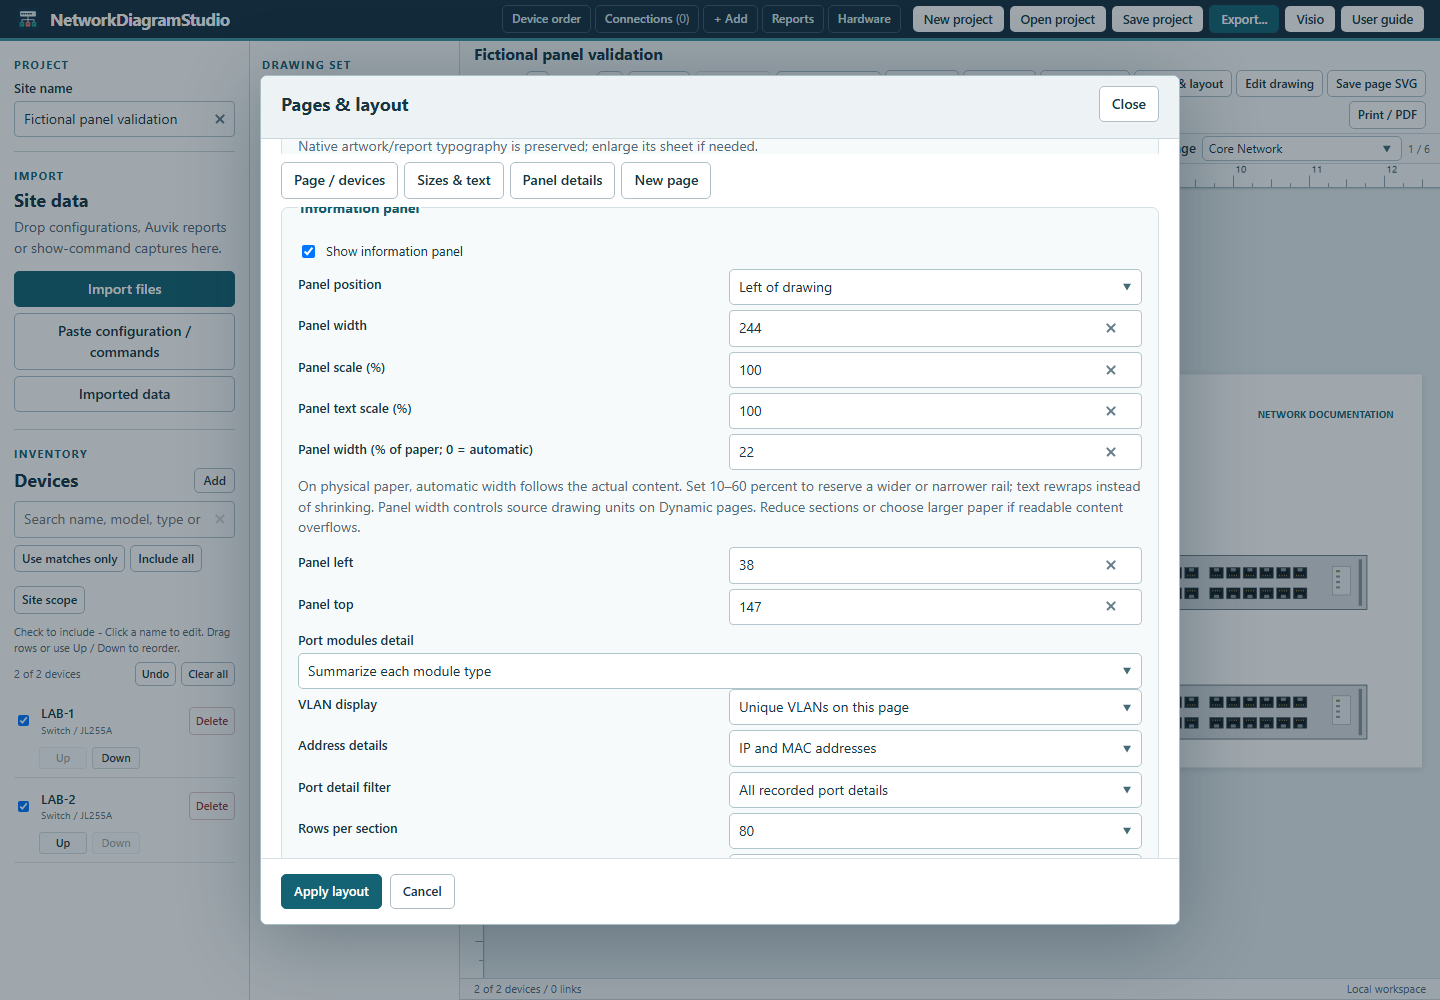
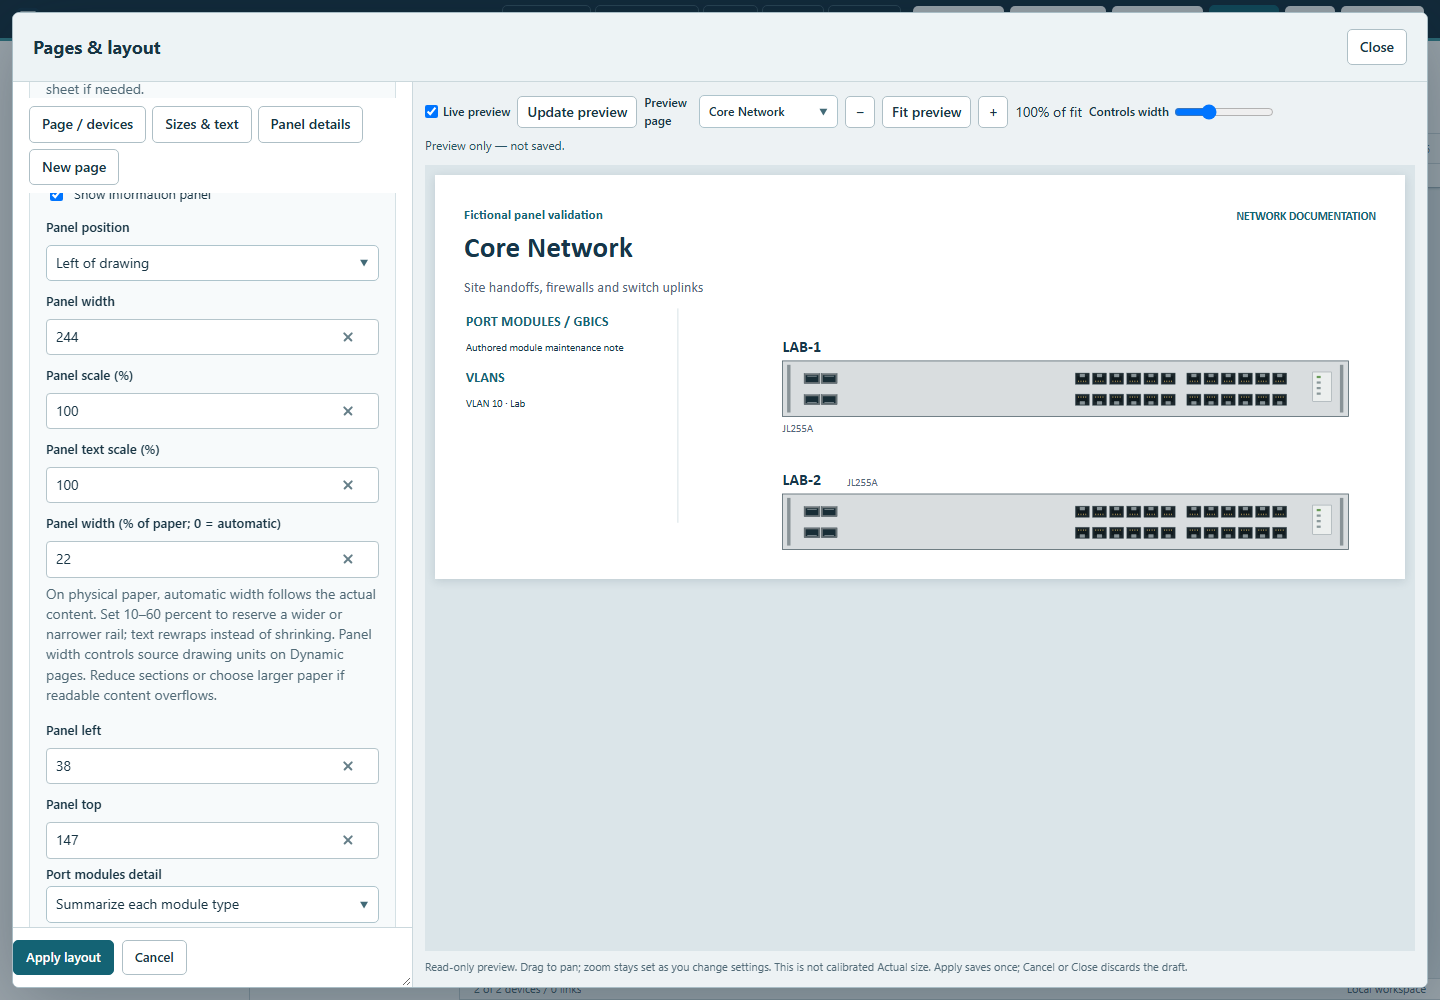
Synchronize real browser interactions and document verified preview47 controls

diff --git a/README.md b/README.md
@@ -77,7 +77,7 @@ Built-in optical sockets and generic installed optics use consistent, reference-
 
 The separate [drawing-pages sidebar](docs/images/pages-sidebar.png) adapts to [compact desktop windows](docs/images/pages-sidebar-compact.png) and [narrow screens](docs/images/pages-sidebar-narrow.png).
 
-See [port and VLAN controls](docs/images/port-vlan-controls.png), [existing-device stack associations](docs/images/device-stacks.png), and a [configured information panel](docs/images/panel-content.png). The [readable paper information rail](docs/images/panel-paper-readable.png) and [wireless color key](docs/images/wireless-paper-key.png) keep their text independent of model fitting. See the [physical text controls](docs/images/paper-readability-controls.png), [paper panel width controls](docs/images/paper-panel-controls.png), and [wireless side-space layout](docs/images/wireless-ap-side-space.png). The offline [User guide](docs/images/user-guide.png) provides searchable steps and adapts to [narrow windows](docs/images/user-guide-narrow.png).
+See [port and VLAN controls](docs/images/port-vlan-controls.png), [existing-device stack associations](docs/images/device-stacks.png), and a [configured information panel](docs/images/panel-content.png). The [readable paper information rail](docs/images/panel-paper-readable.png) and [wireless color key](docs/images/wireless-paper-key.png) keep their text independent of model fitting. See the [physical text controls](docs/images/paper-readability-controls.png), [paper panel width controls](docs/images/paper-panel-controls.png), and [wireless side-space layout](docs/images/wireless-ap-side-space.png). See the [locked port map filling its sheet](docs/images/locked-port-map.png) and [valid device placement below a short information panel](docs/images/empty-panel-space-placement.png). The offline [User guide](docs/images/user-guide.png) provides searchable steps and adapts to [narrow windows](docs/images/user-guide-narrow.png).
 
 Cable labels and port numbers use centered text by default; explicit text-style edits remain available.
 
@@ -223,7 +223,7 @@ calibrated preview, not an absolute guarantee of physical size across monitors.
 Printing must use the same paper at 100% scale for a matching result. Dynamic
 canvases need a physical paper choice before Actual size is available.
 
-Global text styles, Pages & layout and Page options show an isolated live drawing preview beside resizable controls. Pan/zoom the preview while changing settings; pause automatic updates for large drawings. Apply saves one undoable change. Cancel, Close or Escape leaves the original drawing untouched. Other dialogs retain their existing workflow.
+[Global text styles](docs/images/settings-preview-text.png), Pages & layout and [Page options](docs/images/settings-preview-paper.png) show an isolated live drawing preview beside resizable controls, with a [stacked layout on narrow windows](docs/images/settings-preview-narrow.png). Pan/zoom the preview while changing settings; pause automatic updates for large drawings. Apply saves one undoable change. Cancel, Close or Escape leaves the original drawing untouched. Other dialogs retain their existing workflow.
 
 ## Updates and settings
 

diff --git a/DEVELOPMENT_HANDOFF.md b/DEVELOPMENT_HANDOFF.md
@@ -1,3 +1,23 @@
+# Hosted connection-key click readiness correction
+
+Run218 passed the new empty-panel placement drag suite. Its connection-label
+suite hovered the legend successfully, then force-clicked immediately after
+Edit drawing expanded the toolbar; the capture showed zero selection and no
+browser error. Forced input skipped target stability while ResizeObserver
+refitted the canvas. The test now uses normal stable pointer input and records
+the actual pointerdown drawing key, requiring one selected item as well as the
+existing bidirectional highlight assertions. No selection/collision code is
+changed. Local Chromium remains socket-blocked; the exact-head hosted rerun is
+required before claiming the click has passed.
+
+# Preview.47 combined regression validation
+
+At source2fa05f7, all678 Node tests passed with zero failures or skips, along with all9 independent Visio packages, offline build, repository guard and whitespace checks. This includes complete automatic Letter fit, locked adaptive port-map edge fill and valid placement under a short information panel. Hosted run218 passed18/20 browser suites, including the new live-preview, locked-map and drag-preview/commit regressions; legend pointer selection and project-load timing require final rechecks. Current genuine synthetic split-dialog, paper-control, locked-map and placement captures were downloaded, artifact hash verified and visually inspected. Final exact-head browser/native gates and immutable release verification remain mandatory.
+
+# Hosted paper fixture load synchronization correction
+
+Run218 observed the preceding two-wireless-page fixture immediately after requesting the dense one-page fixture. The test previously accepted stale “Project opened” feedback while File.text() was still pending. Its open helper now waits for matching parsed project name in both project field and heading, idle file controls, a ready drawing/export, and completed feedback. All one-whole-wireless-page, Letter containment, continuation, Undo/redo and save/reopen assertions remain unchanged. Local exact dense fixture produces one Dynamic wireless page and one whole Letter wireless page. Hosted rerun remains required.
+
 # Hosted settings-preview resize assertion
 
 Run217 passed19 of20 browser suites. The new settings suite passed draft isolation, Apply/Undo, invalid settings, pan/zoom and narrow dialog containment, then compared canvas HTML after resizing the browser against its pre-resize screen transform. The final cancellation assertion now ignores only the root SVG screen style; all page attributes and diagram shapes remain exact. Earlier cancellation assertions still compare full canvas HTML. Fresh hosted verification required.
